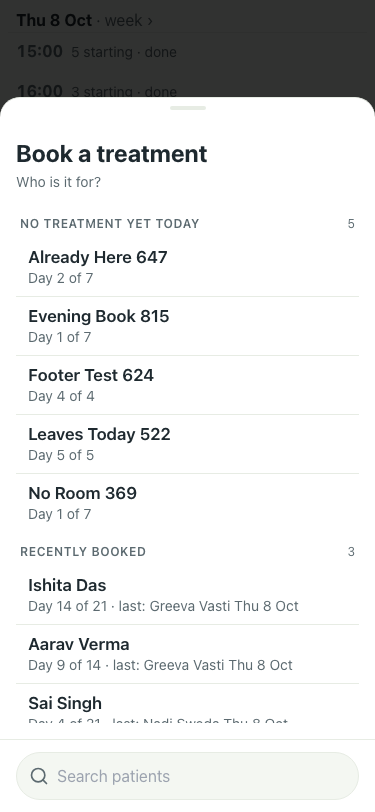
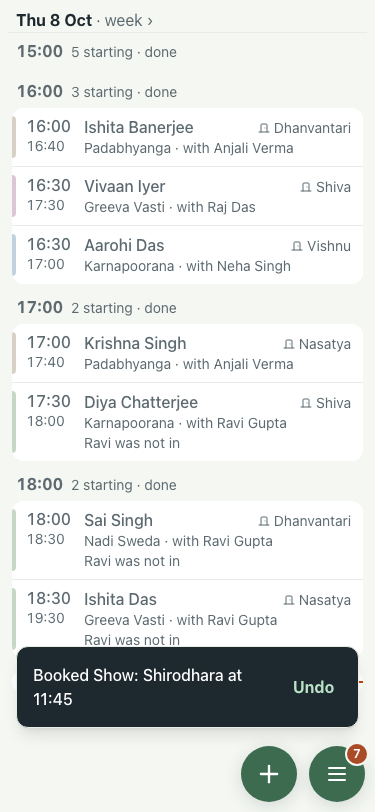
UAT for #553: pick the guest by search, before shots from a real run

diff --git a/docs/design/uat/2026-10-08-553-before/README.md b/docs/design/uat/2026-10-08-553-before/README.md
@@ -4,4 +4,4 @@ Base http://localhost:8140, 375x812. Written by scripts/uat.mjs.
 
 | # | Step | Result | Read off the page | Shot |
 |---|---|---|---|---|
-| 01 | Book on another day, Done: the screen shows that day | FAIL | TimeoutError: locator.click: Timeout 5000ms exceeded. Call log:   - waiting for getByRole('dialog').last().getByText('Show Day 840').first() | ![01](01.png) |
+| 01 | Book on another day, Done: the screen shows that day | FAIL | toast: Booked Show: Shirodhara at 11:45 · Undo; the list shows Show Day 488: false | ![01](01.png) |

diff --git a/docs/design/uat/2026-10-08-553/README.md b/docs/design/uat/2026-10-08-553/README.md
@@ -4,4 +4,4 @@ Base http://localhost:8158, 375x812. Written by scripts/uat.mjs.
 
 | # | Step | Result | Read off the page | Shot |
 |---|---|---|---|---|
-| 01 | Book on another day, Done: the screen shows that day | pass | toast: Booked Show: Shirodhara at 11:45, Sat 10 Oct · Undo; the list shows Show Day 284: true | ![01](01.png) |
+| 01 | Book on another day, Done: the screen shows that day | pass | toast: Booked Show: Shirodhara at 11:45, Sat 10 Oct · Undo; the list shows Show Day 318: true | ![01](01.png) |
